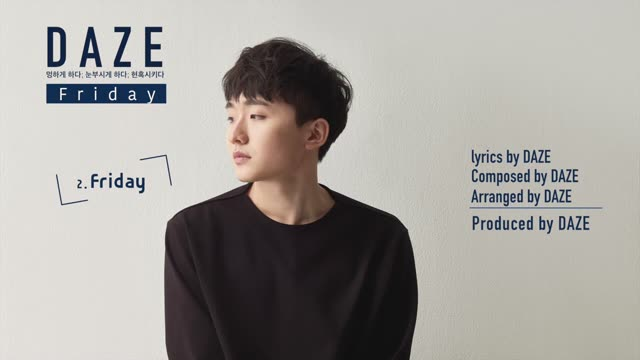
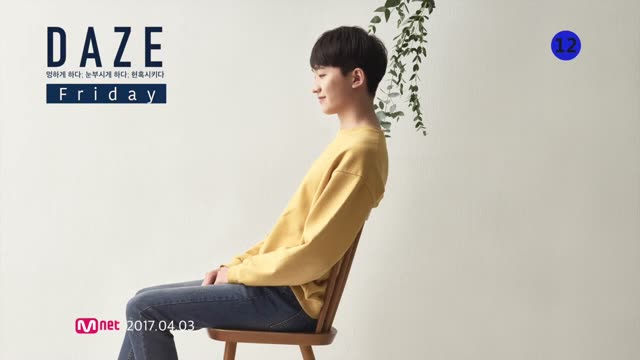
2관 순서 변경(Friday MV 세 번째), Friday MV·2nd EP 썸네일을 첫 컷으로
Claude-Session: https://claude.ai/code/session_01LLcf55Dz63rV5HkvQ73PBu

diff --git a/index.html b/index.html
@@ -232,9 +232,9 @@ const CONFIG = {
     { name: "2관 · DAZE", floor: "#23201f",
       intro: "DAZE 는 r&b 싱어송라이터에요.\n작사작곡 뿐아니라, 프로듀싱, 믹싱 마스터링까지 직접하는\n올라운드 프로듀서에요.",   // 전시실 소개: 들어서면 음비맨이 말하고, 바닥에도 새겨짐
       works: [
-      { id:"w05", year:"2016", title:"DAZE · Friday", desc:"데이즈 (DAZE) - Friday (Director's Cut) MV", say:"", note:"따로 예산이 없어서 뮤비를 안찍으려다가, 영국의 신진 감독님이 제안을 주셔서 런던에 가서 저예산뮤직비디오를 찍었어요", youtube:"", video:"media/w05.mp4", image:"media/w05.jpg" },
       { id:"w05b", year:"2016", title:"DAZE · 1st EP 프리뷰", desc:"DAZE 1st EP Album Preview", say:"", note:"DAZE의 첫 EP예요. 2016년 12월 6일에 나왔고, Friday가 처음 실린 앨범이에요.", youtube:"", video:"media/w05b.mp4", image:"media/w05b.jpg" },
-      { id:"w05c", year:"2017", title:"DAZE · 2nd EP 프리뷰", desc:"DAZE 2nd EP 'Friday' Album Preview", say:"", note:"Friday는 1집 수록곡이었는데, 2집에서는 타이틀곡이 됐어요.", youtube:"", video:"media/w05c.mp4", image:"media/w05c.jpg" }
+      { id:"w05c", year:"2017", title:"DAZE · 2nd EP 프리뷰", desc:"DAZE 2nd EP 'Friday' Album Preview", say:"", note:"Friday는 1집 수록곡이었는데, 2집에서는 타이틀곡이 됐어요.", youtube:"", video:"media/w05c.mp4", image:"media/w05c.jpg" },
+      { id:"w05", year:"2016", title:"DAZE · Friday", desc:"데이즈 (DAZE) - Friday (Director's Cut) MV", say:"", note:"따로 예산이 없어서 뮤비를 안찍으려다가, 영국의 신진 감독님이 제안을 주셔서 런던에 가서 저예산뮤직비디오를 찍었어요", youtube:"", video:"media/w05.mp4", image:"media/w05.jpg" }
     ]},
     { name: "3관 · 버티기", floor: "#1f1c22", works: [
       { id:"w03", year:"○○○○", title:"우지원 (HAIL)", desc:"", say:"", note:"", youtube:"", video:"", image:"" },
